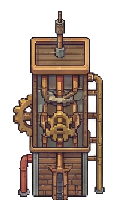
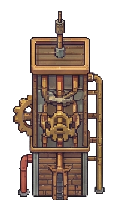
- fix png de la mine

diff --git a/screens/GUI/menu_amelioration.py b/screens/GUI/menu_amelioration.py
@@ -264,7 +264,6 @@ class MenuAmelioration:
         px, py = self.px, self.py
         W, H = self.PANEL_W, self.PANEL_H
 
-        # ========= FOND PANEL =========
         panel = pygame.Rect(px, py, W, H)
 
         draw_rounded_rect(ecran, (24,22,18), panel, 18)
@@ -273,7 +272,6 @@ class MenuAmelioration:
         inner = pygame.Rect(px+8, py+8, W-16, H-16)
         draw_rounded_rect(ecran, CHARBON_CLAIR, inner, 14)
 
-        # ========= TITRE =========
         type_label = TYPE_LABELS.get(
             self.batiment.type,
             self.batiment.type.upper()
@@ -289,7 +287,6 @@ class MenuAmelioration:
             )
         )
 
-        # ========= NIVEAU =========
         level_y = py + 58
         spacing = 34
 
@@ -314,7 +311,6 @@ class MenuAmelioration:
                 2
             )
 
-        # ========= CARD STATS =========
         label,val_act,val_suiv,unite = self._get_stat_info()
 
         card = pygame.Rect(
@@ -399,7 +395,6 @@ class MenuAmelioration:
             )
         )
 
-        # ========= LABEL RESOURCE =========
         txt = self.font_label.render(
             label.upper(),
             True,
@@ -414,7 +409,6 @@ class MenuAmelioration:
             )
         )
 
-        # ========= COUT =========
         cost = self.batiment.get_upgrade_cost()
 
         max_debloque = Batiment.DATA[
@@ -457,7 +451,6 @@ class MenuAmelioration:
             )
         )
 
-        # ========= BOUTONS =========
         if self.btn_ameliorer:
             self.btn_ameliorer.afficher(
                 ecran,
